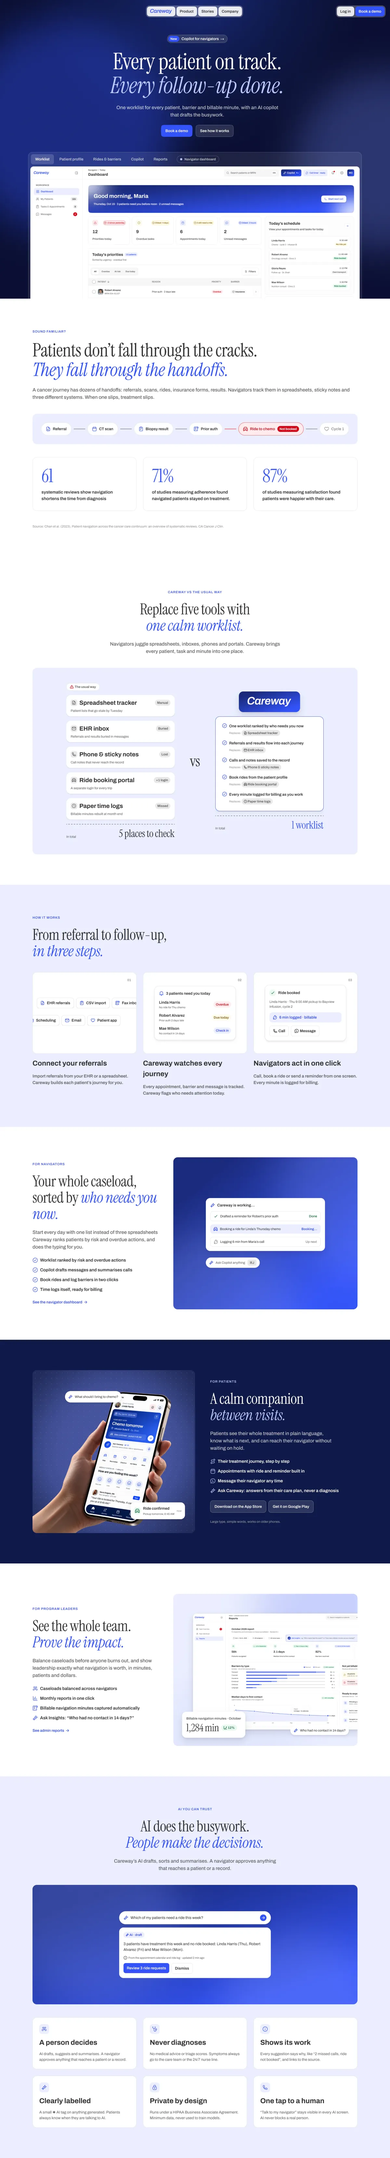
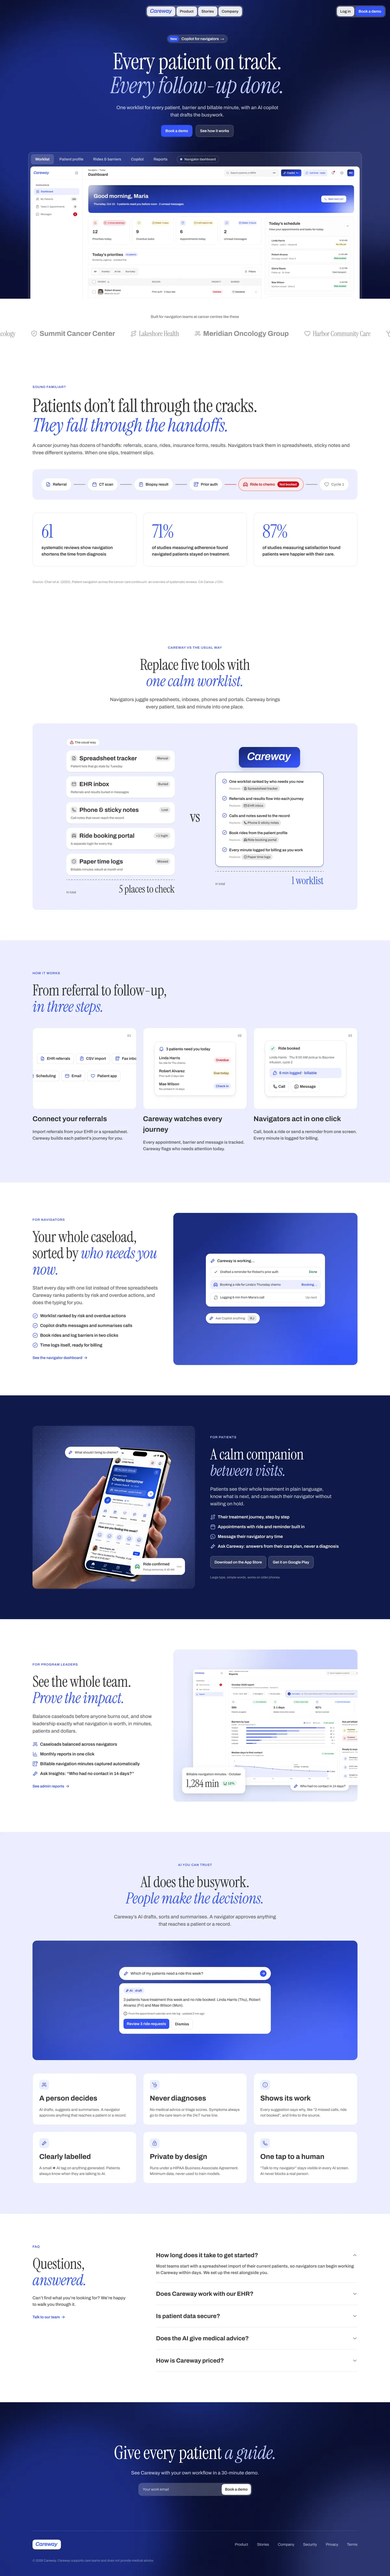
Use the full Figma frame for the Careway page preview and correct the trust claims

diff --git a/projects/careway.html b/projects/careway.html
@@ -37,13 +37,13 @@
 <nav class="sec" aria-label="Contents"><div class="eyebrow">Contents</div><div class="cs-toc"><a href="#s1"><span>01</span>The problem</a><a href="#s2"><span>02</span>Competitor audit</a><a href="#s3"><span>03</span>Findings</a><a href="#s4"><span>04</span>Their hero vs mine</a><a href="#s5"><span>05</span>Scorecard</a><a href="#s6"><span>06</span>How Careway answers</a><a href="#s7"><span>07</span>Where the ideas came from</a><a href="#s8"><span>08</span>Two heroes</a><a href="#s9"><span>09</span>The full page</a><a href="#s10"><span>10</span>Looking back</a><a href="#s11"><span>11</span>Questions I expect</a></div></nav>
 <section class="sec cs-sec" id="s1" aria-labelledby="h1"><div class="eyebrow"><span class="n">01</span> The problem</div><h2 class="cs-h" id="h1">A navigator’s work is hard to buy software for.</h2><p class="cs-p">A nurse navigator guides a patient from diagnosis to survivorship: booking appointments, chasing results, arranging rides and sorting out insurance. Each navigator carries <strong>80 to 120 patients</strong>, and the work is spread across the EHR, spreadsheets, phone logs and sticky notes.</p><p class="cs-callout"><small>Why it matters now</small>Since January 2024, Medicare pays for navigation through codes G0023 and G0024, but a centre can bill only the minutes it can prove.</p><div class="cs-panels n2"><div class="cs-panel"><h3><span class="cs-pill mid">Buyer 1</span> Cancer-centre leader</h3><ul><li>Owns the budget</li><li>Needs proof: outcomes, security, billing value</li><li>Wants to know it’s safe for patients</li></ul></div><div class="cs-panel"><h3><span class="cs-pill mid">Buyer 2</span> Nurse navigator</h3><ul><li>Lives in the product every day</li><li>Tired of “another tool”</li><li>Wants to see their real worklist</li></ul></div></div><p class="cs-callout"><small>The question I set</small>What does each buyer need to see in the first 10 seconds, and what do the pages in this category show them instead?</p></section>
 <section class="sec cs-sec" id="s2" aria-labelledby="h2"><div class="eyebrow"><span class="n">02</span> Competitor audit</div><h2 class="cs-h" id="h2">I audited a direct competitor’s homepage, top to bottom.</h2><p class="cs-p">Navigating Care sells oncology patient management software to the same cancer centres, and it is one of the most widely deployed platforms in the US. The product is respected. This audit is about the page: how well it explains the product to the two buyers above.</p><p class="cs-p">I captured the homepage on <strong>7 Nov 2026</strong> at 1440 px, read it at 390 px, ran axe-core for WCAG 2 AA, measured contrast, and counted every call to action. Numbers on the capture match the findings below.</p><figure class="cs-browser"><div class="bar"><span class="dots" aria-hidden="true"><i></i><i></i><i></i></span><span class="url">navigatingcancer.com · captured 7 Nov 2026</span><span class="hint" aria-hidden="true">Scroll inside ↓</span></div><div class="view" tabindex="0" role="region" aria-label="Scrollable full-page preview: navigatingcancer.com · captured 7 Nov 2026"><img src="../assets/img/cs/careway/competitor-full.webp" alt="The full homepage with my audit markers. Scroll inside the frame to read it all." width="1200" height="4151" loading="lazy" decoding="async"></div><figcaption>The full homepage with my audit markers. Scroll inside the frame to read it all.</figcaption></figure></section>
-<section class="sec cs-sec" id="s3" aria-labelledby="h3"><div class="eyebrow"><span class="n">03</span> Findings</div><h2 class="cs-h" id="h3">Thirteen problems, and Careway’s answer to each.</h2><div class="cs-finds"><div class="cs-find"><span class="cs-mark">1</span><div><h3><span class="cs-pill mid">Major</span> The headline could belong to any health company</h3><p class="cs-p"><small>What I found</small>“Digital health solutions that improve the lives of cancer patients.” It names no user, no job and nothing about navigation.</p><p class="cs-p"><small>Careway</small>The product hero names the outcome a navigator wants: “Every patient on track. Every follow-up done.”</p></div></div><div class="cs-find"><span class="cs-mark">2</span><div><h3><span class="cs-pill mid">Major</span> The hero button is “Learn More”</h3><p class="cs-p"><small>What I found</small>The only action above the fold, on desktop and at 390 px, is “Learn More”. “Schedule a Demo” first appears in the next section.</p><p class="cs-p"><small>Careway</small>“Book a demo” is the primary button in the nav and the hero. The one secondary button, “See how it works”, stays on the page.</p></div></div><div class="cs-find"><span class="cs-mark">3</span><div><h3><span class="cs-pill good">Minor</span> An illustration stands in for the product</h3><p class="cs-p"><small>What I found</small>A flat doctor-and-patient illustration fills the hero. The real product first appears in the third section.</p><p class="cs-p"><small>Careway</small>The hero shows the real navigator dashboard in a framed window, with tabs that name each feature.</p></div></div><div class="cs-find"><span class="cs-mark">4</span><div><h3><span class="cs-pill mid">Major</span> The proof is five years old</h3><p class="cs-p"><small>What I found</small>“500K+ patient education articles sent in 2021”. The four numbers count volume (providers, patients, articles, interactions), not outcomes.</p><p class="cs-p"><small>Careway</small>No numbers until real pilots exist. The problem section cites published research instead, with the source on the page.</p></div></div><div class="cs-find"><span class="cs-mark">5</span><div><h3><span class="cs-pill good">Minor</span> The copy speaks buyer jargon</h3><p class="cs-p"><small>What I found</small>“Industry-leading digital triage, ePRO and patient engagement solutions”. Nothing describes a navigator’s day.</p><p class="cs-p"><small>Careway</small>Each role gets a section in its own words: navigators, patients and program leaders.</p></div></div><div class="cs-find"><span class="cs-mark">6</span><div><h3><span class="cs-pill mid">Major</span> Six calls to action compete</h3><p class="cs-p"><small>What I found</small>Learn More, Schedule a Demo, For Providers, For Life Sciences, Learn more, Schedule a demo. The page also splits its attention between providers and life-sciences companies.</p><p class="cs-p"><small>Careway</small>One primary action, “Book a demo”, repeated. One audience: cancer centres.</p></div></div><div class="cs-find"><span class="cs-mark">7</span><div><h3><span class="cs-pill mid">Major</span> Testimonial names fail contrast</h3><p class="cs-p"><small>What I found</small>White on #49915e measures <strong>3.82:1</strong>. WCAG AA needs 4.5:1 for text this size.</p><p class="cs-p"><small>Careway</small>Every text token passes AA on its surface.</p></div></div><div class="cs-find"><span class="cs-mark">8</span><div><h3><span class="cs-pill mid">Major</span> The tab labels fail contrast</h3><p class="cs-p"><small>What I found</small>Inactive tabs are #808c9a on white, <strong>3.42:1</strong>.</p><p class="cs-p"><small>Careway</small>Same rule: no text below 4.5:1, and states use a label as well as colour.</p></div></div><div class="cs-find"><span class="cs-mark">9</span><div><h3><span class="cs-pill good">Minor</span> The video is a black box</h3><p class="cs-p"><small>What I found</small>No poster image and no captions. Until someone presses play, the section shows nothing.</p><p class="cs-p"><small>Careway</small>Product UI appears as stills inside each step, so the page explains itself without playing anything.</p></div></div><div class="cs-find"><span class="cs-mark">10</span><div><h3><span class="cs-pill good">Minor</span> The one outcome number is also from 2021</h3><p class="cs-p"><small>What I found</small>“76% of patients report improved communication”, from a 2021 survey, followed by another “Learn more”.</p><p class="cs-p"><small>Careway</small>Outcomes wait for pilot data. Until then the page shows what the product does, not claims about it.</p></div></div><div class="cs-find"><span class="cs-mark">11</span><div><h3><span class="cs-pill good">Minor</span> The last call to action is vague</h3><p class="cs-p"><small>What I found</small>“It begins with a conversation.” It doesn’t say who the demo is for or what happens in it.</p><p class="cs-p"><small>Careway</small>An FAQ answers the last objections first, then the closing section repeats “Book a demo”.</p></div></div><div class="cs-find"><span class="cs-mark none">–</span><div><h3><span class="cs-pill bad">Blocker</span> Navigation, billing and safety are missing</h3><p class="cs-p"><small>What I found</small>The words navigator, navigation, HIPAA, billing and AI appear <strong>0 times</strong>. The Medicare navigation codes aren’t mentioned.</p><p class="cs-p"><small>Careway</small>A trust strip under the hero, a program-leader section on billable minutes, and a section of AI rules: a person decides, the AI never diagnoses, and it shows its sources.</p></div></div><div class="cs-find"><span class="cs-mark none">–</span><div><h3><span class="cs-pill mid">Major</span> The markup gets in the way of screen readers</h3><p class="cs-p"><small>What I found</small>Four h1 headings (two of them empty), two images without alt text, a logo link with no accessible name, and videos without captions.</p><p class="cs-p"><small>Careway</small>The build spec calls for one h1, headings in section order, and alt text for every product image.</p></div></div></div></section>
+<section class="sec cs-sec" id="s3" aria-labelledby="h3"><div class="eyebrow"><span class="n">03</span> Findings</div><h2 class="cs-h" id="h3">Thirteen problems, and Careway’s answer to each.</h2><div class="cs-finds"><div class="cs-find"><span class="cs-mark">1</span><div><h3><span class="cs-pill mid">Major</span> The headline could belong to any health company</h3><p class="cs-p"><small>What I found</small>“Digital health solutions that improve the lives of cancer patients.” It names no user, no job and nothing about navigation.</p><p class="cs-p"><small>Careway</small>The product hero names the outcome a navigator wants: “Every patient on track. Every follow-up done.”</p></div></div><div class="cs-find"><span class="cs-mark">2</span><div><h3><span class="cs-pill mid">Major</span> The hero button is “Learn More”</h3><p class="cs-p"><small>What I found</small>The only action above the fold, on desktop and at 390 px, is “Learn More”. “Schedule a Demo” first appears in the next section.</p><p class="cs-p"><small>Careway</small>“Book a demo” is the primary button in the nav and the hero. The one secondary button, “See how it works”, stays on the page.</p></div></div><div class="cs-find"><span class="cs-mark">3</span><div><h3><span class="cs-pill good">Minor</span> An illustration stands in for the product</h3><p class="cs-p"><small>What I found</small>A flat doctor-and-patient illustration fills the hero. The real product first appears in the third section.</p><p class="cs-p"><small>Careway</small>The hero shows the real navigator dashboard in a framed window, with tabs that name each feature.</p></div></div><div class="cs-find"><span class="cs-mark">4</span><div><h3><span class="cs-pill mid">Major</span> The proof is five years old</h3><p class="cs-p"><small>What I found</small>“500K+ patient education articles sent in 2021”. The four numbers count volume (providers, patients, articles, interactions), not outcomes.</p><p class="cs-p"><small>Careway</small>No customer numbers until real pilots exist. The problem section cites published research, with the source on the page, and the logo strip uses fictional centre names as placeholders.</p></div></div><div class="cs-find"><span class="cs-mark">5</span><div><h3><span class="cs-pill good">Minor</span> The copy speaks buyer jargon</h3><p class="cs-p"><small>What I found</small>“Industry-leading digital triage, ePRO and patient engagement solutions”. Nothing describes a navigator’s day.</p><p class="cs-p"><small>Careway</small>Each role gets a section in its own words: navigators, patients and program leaders.</p></div></div><div class="cs-find"><span class="cs-mark">6</span><div><h3><span class="cs-pill mid">Major</span> Six calls to action compete</h3><p class="cs-p"><small>What I found</small>Learn More, Schedule a Demo, For Providers, For Life Sciences, Learn more, Schedule a demo. The page also splits its attention between providers and life-sciences companies.</p><p class="cs-p"><small>Careway</small>One primary action, “Book a demo”, repeated. One audience: cancer centres.</p></div></div><div class="cs-find"><span class="cs-mark">7</span><div><h3><span class="cs-pill mid">Major</span> Testimonial names fail contrast</h3><p class="cs-p"><small>What I found</small>White on #49915e measures <strong>3.82:1</strong>. WCAG AA needs 4.5:1 for text this size.</p><p class="cs-p"><small>Careway</small>Every text token passes AA on its surface.</p></div></div><div class="cs-find"><span class="cs-mark">8</span><div><h3><span class="cs-pill mid">Major</span> The tab labels fail contrast</h3><p class="cs-p"><small>What I found</small>Inactive tabs are #808c9a on white, <strong>3.42:1</strong>.</p><p class="cs-p"><small>Careway</small>Same rule: no text below 4.5:1, and states use a label as well as colour.</p></div></div><div class="cs-find"><span class="cs-mark">9</span><div><h3><span class="cs-pill good">Minor</span> The video is a black box</h3><p class="cs-p"><small>What I found</small>No poster image and no captions. Until someone presses play, the section shows nothing.</p><p class="cs-p"><small>Careway</small>Product UI appears as stills inside each step, so the page explains itself without playing anything.</p></div></div><div class="cs-find"><span class="cs-mark">10</span><div><h3><span class="cs-pill good">Minor</span> The one outcome number is also from 2021</h3><p class="cs-p"><small>What I found</small>“76% of patients report improved communication”, from a 2021 survey, followed by another “Learn more”.</p><p class="cs-p"><small>Careway</small>Outcomes wait for pilot data. Until then the page shows what the product does, not claims about it.</p></div></div><div class="cs-find"><span class="cs-mark">11</span><div><h3><span class="cs-pill good">Minor</span> The last call to action is vague</h3><p class="cs-p"><small>What I found</small>“It begins with a conversation.” It doesn’t say who the demo is for or what happens in it.</p><p class="cs-p"><small>Careway</small>An FAQ answers the last objections first. The closing section says exactly what happens: “See Careway with your own workflow in a 30-minute demo.”</p></div></div><div class="cs-find"><span class="cs-mark none">–</span><div><h3><span class="cs-pill bad">Blocker</span> Navigation, billing and safety are missing</h3><p class="cs-p"><small>What I found</small>The words navigator, navigation, HIPAA, billing and AI appear <strong>0 times</strong>. The Medicare navigation codes aren’t mentioned.</p><p class="cs-p"><small>Careway</small>A program-leader section on billable minutes, a section of AI rules (a person decides, the AI never diagnoses, it shows its sources), and FAQ answers on data security and medical advice.</p></div></div><div class="cs-find"><span class="cs-mark none">–</span><div><h3><span class="cs-pill mid">Major</span> The markup gets in the way of screen readers</h3><p class="cs-p"><small>What I found</small>Four h1 headings (two of them empty), two images without alt text, a logo link with no accessible name, and videos without captions.</p><p class="cs-p"><small>Careway</small>The build spec calls for one h1, headings in section order, and alt text for every product image.</p></div></div></div></section>
 <section class="sec cs-sec" id="s4" aria-labelledby="h4"><div class="eyebrow"><span class="n">04</span> Their hero vs mine</div><h2 class="cs-h" id="h4">Same buyer, same 10 seconds.</h2><figure class="cs-cmp"><div class="frame"><img src="../assets/img/cs/careway/hero-b-product.webp" alt="Careway · Hero B" width="1440" height="1100" loading="lazy" decoding="async"><div class="before"><img src="../assets/img/cs/careway/competitor-hero.webp" alt="Navigating Care" loading="lazy" decoding="async"></div><span class="tag l">Navigating Care</span><span class="tag r">Careway · Hero B</span><span class="handle" aria-hidden="true"></span></div><input type="range" min="0" max="100" value="50" aria-label="Drag to compare Navigating Care and Careway · Hero B"></figure><p class="cs-p">Drag the handle. Theirs leads with an illustration and “Learn More”. Mine leads with the worklist a navigator would open on Monday morning and one clear next step.</p></section>
-<section class="sec cs-sec" id="s5" aria-labelledby="h5"><div class="eyebrow"><span class="n">05</span> Scorecard</div><h2 class="cs-h" id="h5">Eight questions a buyer asks, scored for both pages.</h2><div class="cs-tbl" tabindex="0" role="region" aria-label="Table: Question vs Navigating Care vs Careway"><table><thead><tr><th scope="col">Question</th><th scope="col">Navigating Care</th><th scope="col">Careway</th></tr></thead><tbody><tr><td>What is it, in 10 seconds?</td><td>Generic headline</td><td>Outcome headline + real product</td></tr><tr><td>Can I see the product?</td><td>Third section</td><td>In the hero</td></tr><tr><td>What should I do next?</td><td>6 competing actions</td><td>1 primary action: Book a demo</td></tr><tr><td>Is it for navigators?</td><td>Never mentioned</td><td>A section for each role</td></tr><tr><td>Does it pay for itself?</td><td>Not mentioned</td><td>Billable minutes, G0023/G0024</td></tr><tr><td>Is it safe, and what does the AI do?</td><td>Not mentioned</td><td>Trust strip + AI rules</td></tr><tr><td>Is the proof current?</td><td>2021 numbers</td><td>Cited research, no invented numbers</td></tr><tr><td>Can everyone read it?</td><td>2 contrast failures, 4 h1s</td><td>AA tokens, one h1 in the spec</td></tr></tbody></table></div></section>
+<section class="sec cs-sec" id="s5" aria-labelledby="h5"><div class="eyebrow"><span class="n">05</span> Scorecard</div><h2 class="cs-h" id="h5">Eight questions a buyer asks, scored for both pages.</h2><div class="cs-tbl" tabindex="0" role="region" aria-label="Table: Question vs Navigating Care vs Careway"><table><thead><tr><th scope="col">Question</th><th scope="col">Navigating Care</th><th scope="col">Careway</th></tr></thead><tbody><tr><td>What is it, in 10 seconds?</td><td>Generic headline</td><td>Outcome headline + real product</td></tr><tr><td>Can I see the product?</td><td>Third section</td><td>In the hero</td></tr><tr><td>What should I do next?</td><td>6 competing actions</td><td>1 primary action: Book a demo</td></tr><tr><td>Is it for navigators?</td><td>Never mentioned</td><td>A section for each role</td></tr><tr><td>Does it pay for itself?</td><td>Not mentioned</td><td>Billable minutes, G0023/G0024</td></tr><tr><td>Is it safe, and what does the AI do?</td><td>Not mentioned</td><td>AI rules + security FAQ</td></tr><tr><td>Is the proof current?</td><td>2021 numbers</td><td>Cited research, no invented numbers</td></tr><tr><td>Can everyone read it?</td><td>2 contrast failures, 4 h1s</td><td>AA tokens, one h1 in the spec</td></tr></tbody></table></div></section>
 <section class="sec cs-sec" id="s6" aria-labelledby="h6"><div class="eyebrow"><span class="n">06</span> How Careway answers</div><h2 class="cs-h" id="h6">The sections that fix the findings.</h2><figure class="cs-fig wide"><button type="button" class="zoom" data-full="../assets/img/cs/careway/section-problem.webp" aria-label="Open image full size"><img src="../assets/img/cs/careway/section-problem.webp" alt="Fixes 4: “Patients don’t fall through the cracks. They fall through the handoffs.” Evidence from published research, with the source cited." width="1440" height="960" loading="lazy" decoding="async"></button><figcaption>Fixes 4: “Patients don’t fall through the cracks. They fall through the handoffs.” Evidence from published research, with the source cited.</figcaption></figure><figure class="cs-fig wide"><button type="button" class="zoom" data-full="../assets/img/cs/careway/section-vs-usual-way.webp" aria-label="Open image full size"><img src="../assets/img/cs/careway/section-vs-usual-way.webp" alt="Fixes 5 and 6: five tools against one worklist. Each Careway feature shows what it replaces." width="1440" height="1199" loading="lazy" decoding="async"></button><figcaption>Fixes 5 and 6: five tools against one worklist. Each Careway feature shows what it replaces.</figcaption></figure><figure class="cs-fig wide"><button type="button" class="zoom" data-full="../assets/img/cs/careway/section-how-it-works.webp" aria-label="Open image full size"><img src="../assets/img/cs/careway/section-how-it-works.webp" alt="Fixes 3 and 9: from referral to follow-up in three steps, each with a still of real product UI." width="1440" height="892" loading="lazy" decoding="async"></button><figcaption>Fixes 3 and 9: from referral to follow-up in three steps, each with a still of real product UI.</figcaption></figure><figure class="cs-fig wide"><button type="button" class="zoom" data-full="../assets/img/cs/careway/section-ai-guardrails.webp" aria-label="Open image full size"><img src="../assets/img/cs/careway/section-ai-guardrails.webp" alt="Fixes the missing safety story: an example question with a drafted, sourced answer, followed by the AI rules." width="1440" height="1406" loading="lazy" decoding="async"></button><figcaption>Fixes the missing safety story: an example question with a drafted, sourced answer, followed by the AI rules.</figcaption></figure></section>
-<section class="sec cs-sec" id="s7" aria-labelledby="h7"><div class="eyebrow"><span class="n">07</span> Where the ideas came from</div><h2 class="cs-h" id="h7">Four products outside oncology, one move borrowed from each.</h2><div class="cs-tbl" tabindex="0" role="region" aria-label="Table: Product vs What it does well vs What I borrowed"><table><thead><tr><th scope="col">Product</th><th scope="col">What it does well</th><th scope="col">What I borrowed</th></tr></thead><tbody><tr><td>Lassie AI</td><td>A calm full-bleed film and a one-line promise</td><td>The film hero (Variant A)</td></tr><tr><td>Heidi Health</td><td>Speaks to clinicians in their words, with security early</td><td>The trust strip under the hero</td></tr><tr><td>Joyful Health</td><td>A clear problem-to-outcome story for administrators</td><td>The problem section and the admin story</td></tr><tr><td>Ferndesk</td><td>The real product in a framed window with feature tabs</td><td>Hero B with the navigator dashboard</td></tr></tbody></table></div></section>
+<section class="sec cs-sec" id="s7" aria-labelledby="h7"><div class="eyebrow"><span class="n">07</span> Where the ideas came from</div><h2 class="cs-h" id="h7">Four products outside oncology, one move borrowed from each.</h2><div class="cs-tbl" tabindex="0" role="region" aria-label="Table: Product vs What it does well vs What I borrowed"><table><thead><tr><th scope="col">Product</th><th scope="col">What it does well</th><th scope="col">What I borrowed</th></tr></thead><tbody><tr><td>Lassie AI</td><td>A calm full-bleed film and a one-line promise</td><td>The film hero (Variant A)</td></tr><tr><td>Heidi Health</td><td>Speaks to clinicians in their words, with proof early</td><td>The logo strip under the hero</td></tr><tr><td>Joyful Health</td><td>A clear problem-to-outcome story for administrators</td><td>The problem section and the admin story</td></tr><tr><td>Ferndesk</td><td>The real product in a framed window with feature tabs</td><td>Hero B with the navigator dashboard</td></tr></tbody></table></div></section>
 <section class="sec cs-sec" id="s8" aria-labelledby="h8"><div class="eyebrow"><span class="n">08</span> Two heroes</div><h2 class="cs-h" id="h8">I designed two heroes to test which one books more demos.</h2><div class="cs-iters"><div class="cs-iter"><header><span class="cs-pill mid">Variant A</span><h3>Film hero</h3></header><p class="cs-p">Emotional and memorable: “Cancer care is hard. Navigation shouldn’t be.” Best for awareness and conference traffic. Risk: it says little about what the product does.</p></div><div class="cs-iter"><header><span class="cs-pill mid">Variant B</span><h3>Product hero</h3></header><p class="cs-p">Concrete: “Every patient on track. Every follow-up done.” with the real dashboard. Best for buyers ready to evaluate. Risk: denser, so the headline has to stay short.</p></div></div><div class="cs-figs n2 phones"><figure class="cs-fig phone"><button type="button" class="zoom" data-full="../assets/img/cs/careway/mobile-hero-a.webp" aria-label="Open image full size"><img src="../assets/img/cs/careway/mobile-hero-a.webp" alt="Variant A at 390 px." width="702" height="1520" loading="lazy" decoding="async"></button><figcaption>Variant A at 390 px.</figcaption></figure><figure class="cs-fig phone"><button type="button" class="zoom" data-full="../assets/img/cs/careway/mobile-hero-b.webp" aria-label="Open image full size"><img src="../assets/img/cs/careway/mobile-hero-b.webp" alt="Variant B at 390 px." width="702" height="1437" loading="lazy" decoding="async"></button><figcaption>Variant B at 390 px.</figcaption></figure></div><p class="cs-callout"><small>How I’d decide</small>Run the A/B test for four weeks. Primary metric: demo-request rate. Secondary: scroll depth to “How it works”.</p></section>
-<section class="sec cs-sec" id="s9" aria-labelledby="h9"><div class="eyebrow"><span class="n">09</span> The full page</div><h2 class="cs-h" id="h9">Scroll through the whole Careway page.</h2><figure class="cs-browser"><div class="bar"><span class="dots" aria-hidden="true"><i></i><i></i><i></i></span><span class="url">Careway landing page · Hero B · 1440 px</span><span class="hint" aria-hidden="true">Scroll inside ↓</span></div><div class="view" tabindex="0" role="region" aria-label="Scrollable full-page preview: Careway landing page · Hero B · 1440 px"><img src="../assets/img/cs/careway/careway-full.webp" alt="Hero B, then the problem, Careway vs the usual way, how it works, the three role sections and the AI rules, exported from the Figma design." width="1200" height="6624" loading="lazy" decoding="async"></div><figcaption>Hero B, then the problem, Careway vs the usual way, how it works, the three role sections and the AI rules, exported from the Figma design.</figcaption></figure></section>
+<section class="sec cs-sec" id="s9" aria-labelledby="h9"><div class="eyebrow"><span class="n">09</span> The full page</div><h2 class="cs-h" id="h9">Scroll through the whole Careway page.</h2><figure class="cs-browser"><div class="bar"><span class="dots" aria-hidden="true"><i></i><i></i><i></i></span><span class="url">Careway landing page · Hero B · 1440 px</span><span class="hint" aria-hidden="true">Scroll inside ↓</span></div><div class="view" tabindex="0" role="region" aria-label="Scrollable full-page preview: Careway landing page · Hero B · 1440 px"><img src="../assets/img/cs/careway/careway-full.webp" alt="All 11 sections of Hero B, from the hero to the footer, exported from the Figma design at 1440 px." width="1200" height="7906" loading="lazy" decoding="async"></div><figcaption>All 11 sections of Hero B, from the hero to the footer, exported from the Figma design at 1440 px.</figcaption></figure></section>
 <section class="sec cs-sec" id="s10" aria-labelledby="h10"><div class="eyebrow"><span class="n">10</span> Looking back</div><h2 class="cs-h" id="h10">What the audit taught me.</h2><div class="cs-rows"><div class="cs-row"><span>01</span><div><h3>Audit before you design</h3><p class="cs-p">Measuring a competitor’s page gave every design decision a reason I could point to.</p></div></div><div class="cs-row"><span>02</span><div><h3>A landing page is a sequence of answers</h3><p class="cs-p">Ordering sections by the buyer’s questions did more than any visual flourish.</p></div></div><div class="cs-row"><span>03</span><div><h3>Trust is content</h3><p class="cs-p">For health software, safety rules and honest proof belong near the top, not in the footer.</p></div></div></div><p class="cs-honest"><strong>Not yet validated.</strong> The page hasn’t launched and the A/B test hasn’t run. The audit covers one competitor’s homepage on one day; their page may change.</p></section>
 <section class="sec cs-sec" id="s11" aria-labelledby="h11"><div class="eyebrow"><span class="n">11</span> Questions I expect</div><h2 class="cs-h visually-hidden" id="h11">Questions I expect</h2><div class="cs-faq"><details open><summary>Why audit a competitor instead of starting from a blank page?</summary><p>Buyers compare pages side by side. Knowing exactly where the category falls short showed me what Careway had to say first.</p></details><details><summary>Why only one call to action?</summary><p>Health software is sold through demos. Their page shows six competing actions; I kept one primary action.</p></details></div></section>
 <section class="sec"><div class="eyebrow">Next case study <a class="more" href="../projects.html">All projects →</a></div><div class="plist"><a class="prow" href="../projects/gofully.html"><span class="icon"><img src="../assets/img/cover/gofully.webp" alt="" loading="lazy" decoding="async" width="44" height="44"></span><span><b>GoFully</b><span class="arr" aria-hidden="true">→</span><small>chrome web store</small></span><p>A screenshot extension rebuilt around privacy: new brand, token system, 70+ screens and a site that says nothing leaves your device.</p></a><a class="prow" href="../projects/jobly.html"><span class="icon"><img src="../assets/img/cover/jobly.webp" alt="" loading="lazy" decoding="async" width="44" height="44"></span><span><b>Jobly</b><span class="arr" aria-hidden="true">→</span><small>chrome extension · web</small></span><p>Fresh jobs from 2,000+ company career pages, with the real posting date on every card. No account, no server.</p></a></div></section>

diff --git a/scripts/case_studies.py b/scripts/case_studies.py
@@ -293,15 +293,15 @@ dict(
       (1, 'Major', 'The headline could belong to any health company', '“Digital health solutions that improve the lives of cancer patients.” It names no user, no job and nothing about navigation.', 'The product hero names the outcome a navigator wants: “Every patient on track. Every follow-up done.”'),
       (2, 'Major', 'The hero button is “Learn More”', 'The only action above the fold, on desktop and at 390 px, is “Learn More”. “Schedule a Demo” first appears in the next section.', '“Book a demo” is the primary button in the nav and the hero. The one secondary button, “See how it works”, stays on the page.'),
       (3, 'Minor', 'An illustration stands in for the product', 'A flat doctor-and-patient illustration fills the hero. The real product first appears in the third section.', 'The hero shows the real navigator dashboard in a framed window, with tabs that name each feature.'),
-      (4, 'Major', 'The proof is five years old', '“500K+ patient education articles sent in 2021”. The four numbers count volume (providers, patients, articles, interactions), not outcomes.', 'No numbers until real pilots exist. The problem section cites published research instead, with the source on the page.'),
+      (4, 'Major', 'The proof is five years old', '“500K+ patient education articles sent in 2021”. The four numbers count volume (providers, patients, articles, interactions), not outcomes.', 'No customer numbers until real pilots exist. The problem section cites published research, with the source on the page, and the logo strip uses fictional centre names as placeholders.'),
       (5, 'Minor', 'The copy speaks buyer jargon', '“Industry-leading digital triage, ePRO and patient engagement solutions”. Nothing describes a navigator’s day.', 'Each role gets a section in its own words: navigators, patients and program leaders.'),
       (6, 'Major', 'Six calls to action compete', 'Learn More, Schedule a Demo, For Providers, For Life Sciences, Learn more, Schedule a demo. The page also splits its attention between providers and life-sciences companies.', 'One primary action, “Book a demo”, repeated. One audience: cancer centres.'),
       (7, 'Major', 'Testimonial names fail contrast', 'White on #49915e measures **3.82:1**. WCAG AA needs 4.5:1 for text this size.', 'Every text token passes AA on its surface.'),
       (8, 'Major', 'The tab labels fail contrast', 'Inactive tabs are #808c9a on white, **3.42:1**.', 'Same rule: no text below 4.5:1, and states use a label as well as colour.'),
       (9, 'Minor', 'The video is a black box', 'No poster image and no captions. Until someone presses play, the section shows nothing.', 'Product UI appears as stills inside each step, so the page explains itself without playing anything.'),
       (10, 'Minor', 'The one outcome number is also from 2021', '“76% of patients report improved communication”, from a 2021 survey, followed by another “Learn more”.', 'Outcomes wait for pilot data. Until then the page shows what the product does, not claims about it.'),
-      (11, 'Minor', 'The last call to action is vague', '“It begins with a conversation.” It doesn’t say who the demo is for or what happens in it.', 'An FAQ answers the last objections first, then the closing section repeats “Book a demo”.'),
-      ('', 'Blocker', 'Navigation, billing and safety are missing', 'The words navigator, navigation, HIPAA, billing and AI appear **0 times**. The Medicare navigation codes aren’t mentioned.', 'A trust strip under the hero, a program-leader section on billable minutes, and a section of AI rules: a person decides, the AI never diagnoses, and it shows its sources.'),
+      (11, 'Minor', 'The last call to action is vague', '“It begins with a conversation.” It doesn’t say who the demo is for or what happens in it.', 'An FAQ answers the last objections first. The closing section says exactly what happens: “See Careway with your own workflow in a 30-minute demo.”'),
+      ('', 'Blocker', 'Navigation, billing and safety are missing', 'The words navigator, navigation, HIPAA, billing and AI appear **0 times**. The Medicare navigation codes aren’t mentioned.', 'A program-leader section on billable minutes, a section of AI rules (a person decides, the AI never diagnoses, it shows its sources), and FAQ answers on data security and medical advice.'),
       ('', 'Major', 'The markup gets in the way of screen readers', 'Four h1 headings (two of them empty), two images without alt text, a logo link with no accessible name, and videos without captions.', 'The build spec calls for one h1, headings in section order, and alt text for every product image.'),
     ]),
   ]),
@@ -316,7 +316,7 @@ dict(
       ['What should I do next?', '6 competing actions', '1 primary action: Book a demo'],
       ['Is it for navigators?', 'Never mentioned', 'A section for each role'],
       ['Does it pay for itself?', 'Not mentioned', 'Billable minutes, G0023/G0024'],
-      ['Is it safe, and what does the AI do?', 'Not mentioned', 'Trust strip + AI rules'],
+      ['Is it safe, and what does the AI do?', 'Not mentioned', 'AI rules + security FAQ'],
       ['Is the proof current?', '2021 numbers', 'Cited research, no invented numbers'],
       ['Can everyone read it?', '2 contrast failures, 4 h1s', 'AA tokens, one h1 in the spec'],
     ]),
@@ -330,7 +330,7 @@ dict(
   ('Where the ideas came from', 'Four products outside oncology, one move borrowed from each.', [
     ('table', ['Product', 'What it does well', 'What I borrowed'], [
       ['Lassie AI', 'A calm full-bleed film and a one-line promise', 'The film hero (Variant A)'],
-      ['Heidi Health', 'Speaks to clinicians in their words, with security early', 'The trust strip under the hero'],
+      ['Heidi Health', 'Speaks to clinicians in their words, with proof early', 'The logo strip under the hero'],
       ['Joyful Health', 'A clear problem-to-outcome story for administrators', 'The problem section and the admin story'],
       ['Ferndesk', 'The real product in a framed window with feature tabs', 'Hero B with the navigator dashboard']]),
   ]),
@@ -341,7 +341,7 @@ dict(
     ('callout', 'How I’d decide', 'Run the A/B test for four weeks. Primary metric: demo-request rate. Secondary: scroll depth to “How it works”.'),
   ]),
   ('The full page', 'Scroll through the whole Careway page.', [
-    ('browser', 'careway-full.webp', 'Careway landing page · Hero B · 1440 px', 'Hero B, then the problem, Careway vs the usual way, how it works, the three role sections and the AI rules, exported from the Figma design.'),
+    ('browser', 'careway-full.webp', 'Careway landing page · Hero B · 1440 px', 'All 11 sections of Hero B, from the hero to the footer, exported from the Figma design at 1440 px.'),
   ]),
   ('Looking back', 'What the audit taught me.', [
     ('rows', [('Audit before you design', 'Measuring a competitor’s page gave every design decision a reason I could point to.'),
